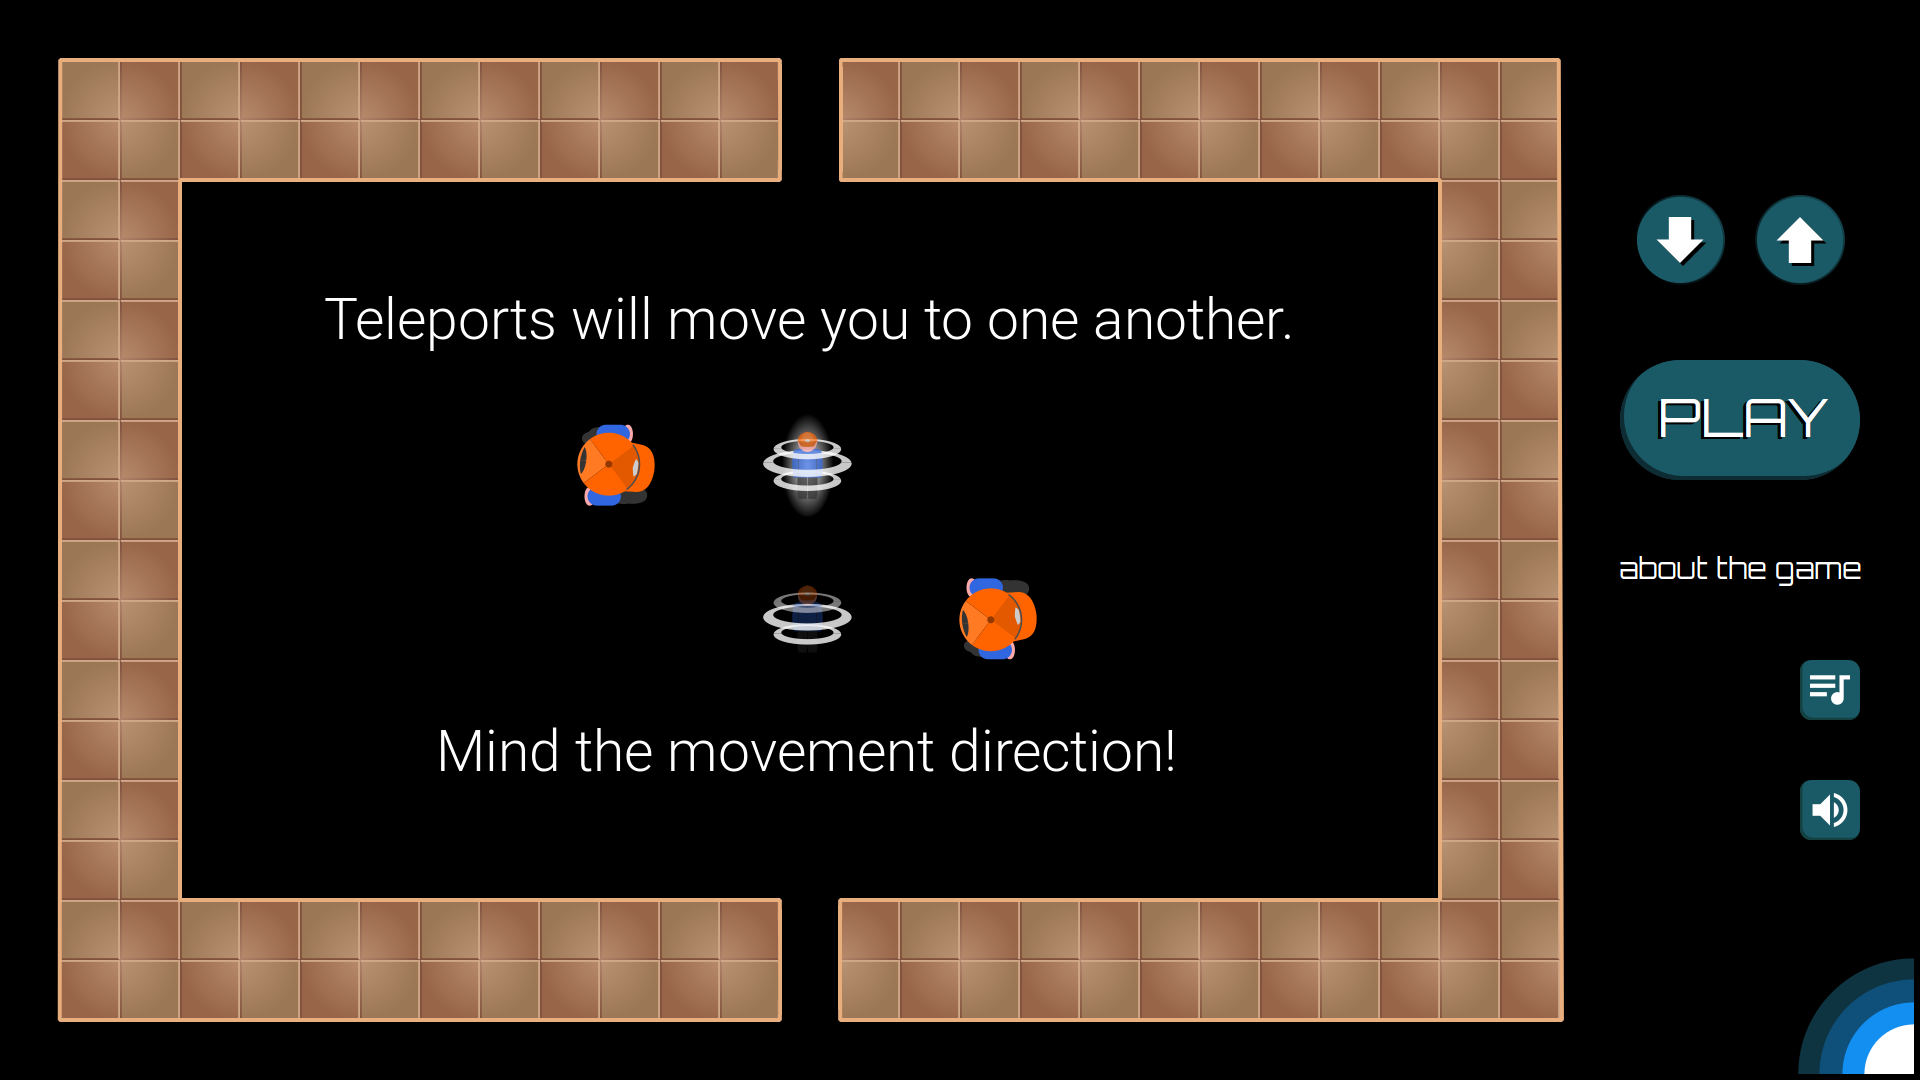
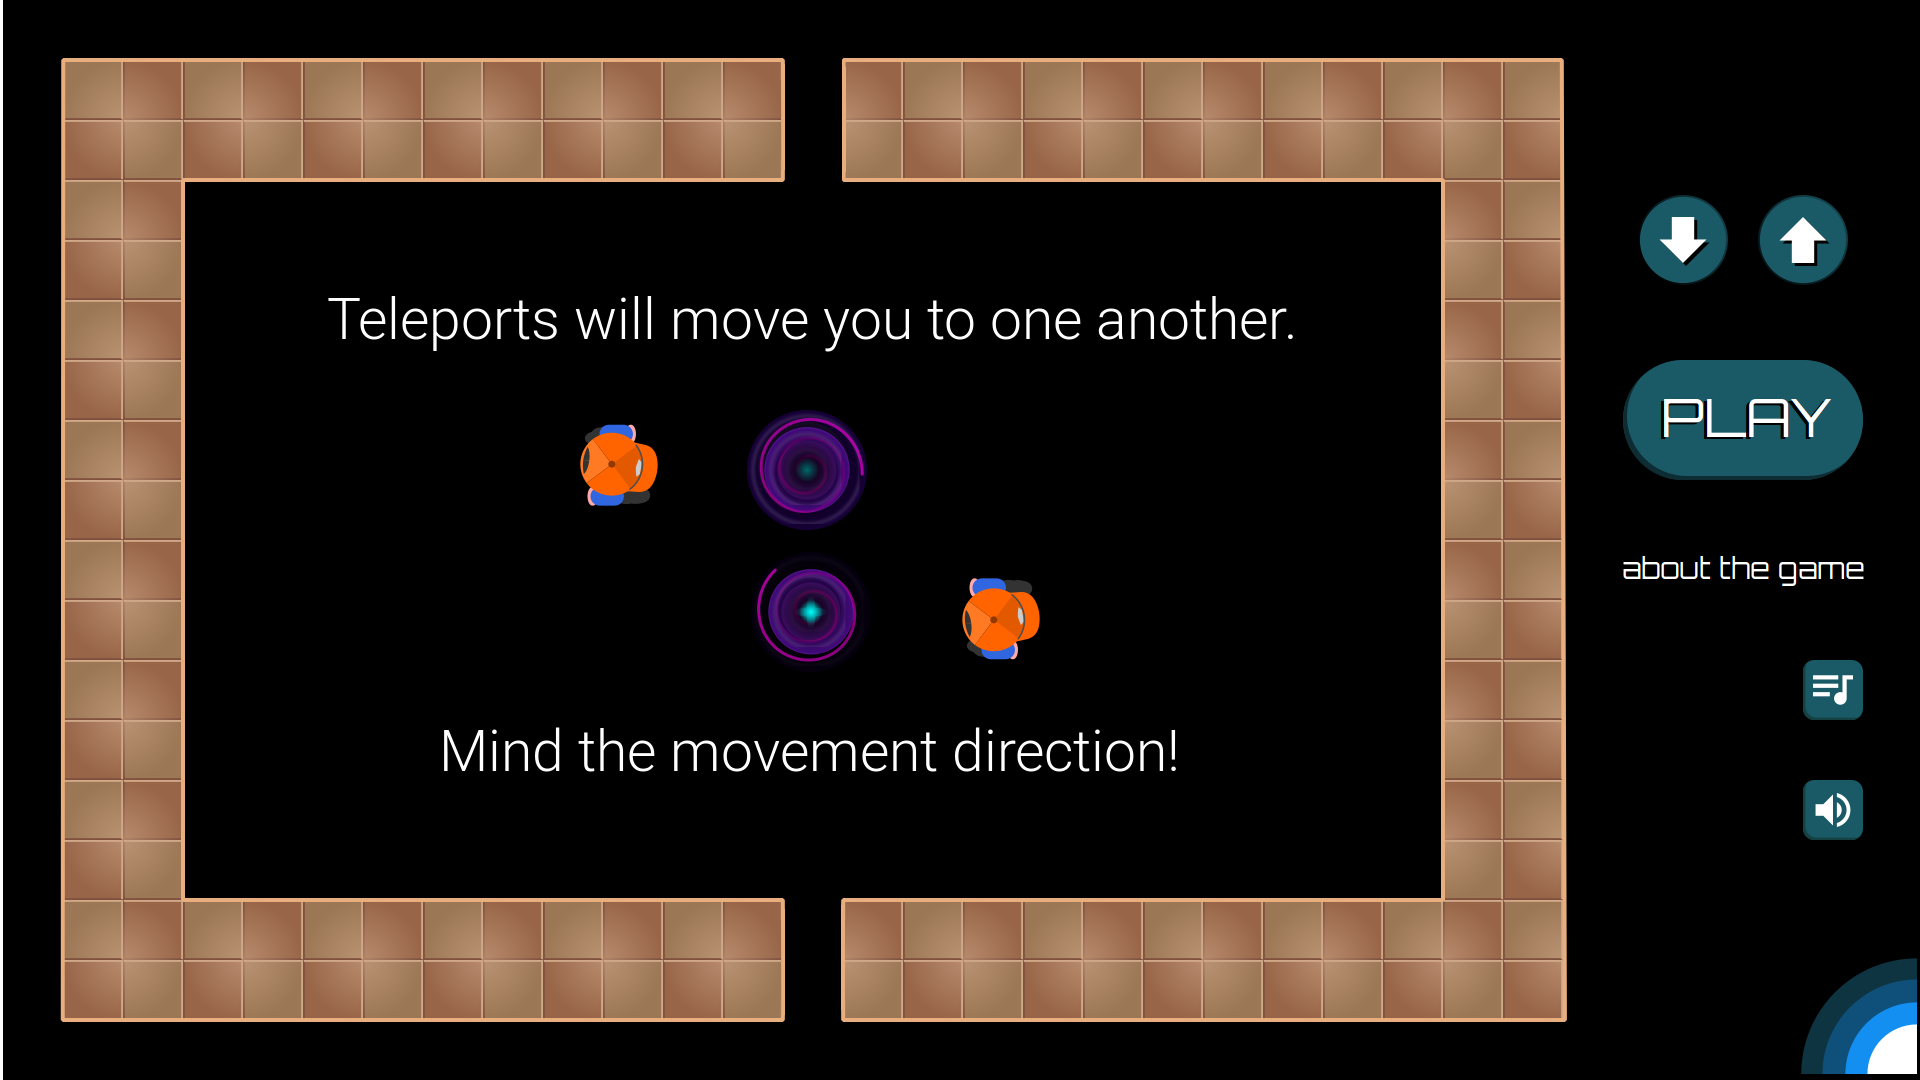
teleport redesigned

diff --git a/src/game/Utils.java b/src/game/Utils.java
@@ -755,7 +755,7 @@ abstract class Utils extends Application {
 
         mToolbarMenuImg = new Image(ClassLoader.getSystemResource("images/sprites/toolbar_menu.png").toExternalForm());
 
-        mTeleportImg = new Image("images/sprites/teleport3.png");
+        mTeleportImg = new Image("images/sprites/teleport.png");
 
         mIntro01 = new Image(ClassLoader.getSystemResource("images/common/intro01.png").toExternalForm());
         mIntro02 = new Image(ClassLoader.getSystemResource("images/common/intro02.png").toExternalForm());
